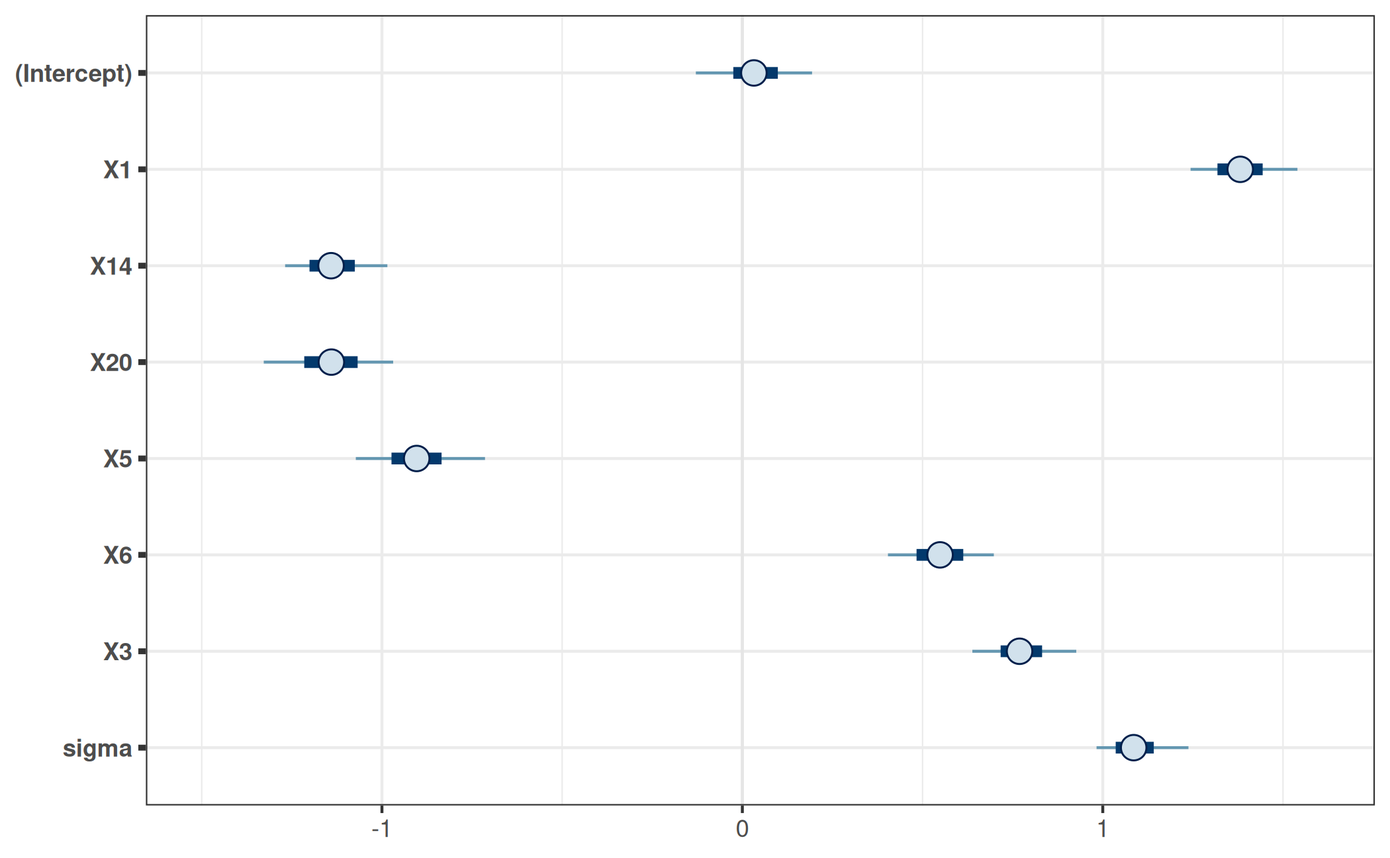
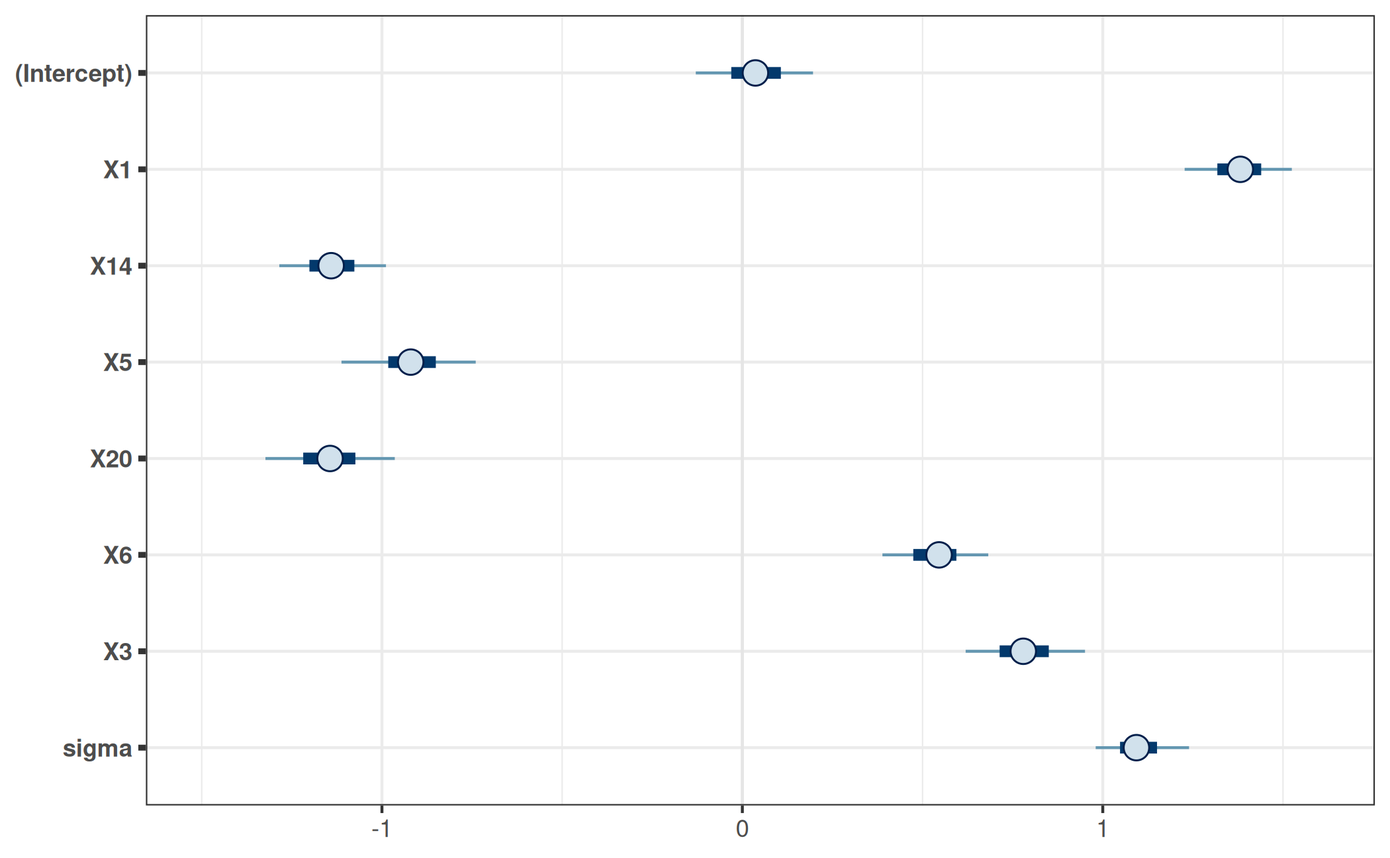
re-build the articles using `pkgdown::build_articles()`

diff --git a/articles/projpred.html b/articles/projpred.html
@@ -257,7 +257,7 @@ mechanism to detect the number of CPU cores (like the
 <span><span class="va">ncores</span> <span class="op">&lt;-</span> <span class="fu"><a href="https://rdrr.io/r/base/Extremes.html" class="external-link">min</a></span><span class="op">(</span><span class="va">ncores</span>, <span class="fl">2L</span><span class="op">)</span></span>
 <span><span class="co">###</span></span>
 <span><span class="fu"><a href="https://rdrr.io/r/base/options.html" class="external-link">options</a></span><span class="op">(</span>mc.cores <span class="op">=</span> <span class="va">ncores</span><span class="op">)</span></span>
-<span><span class="fu"><a href="https://rdrr.io/r/base/Random.html" class="external-link">set.seed</a></span><span class="op">(</span><span class="fl">5078022</span><span class="op">)</span></span>
+<span><span class="fu"><a href="https://rdrr.io/r/base/Random.html" class="external-link">set.seed</a></span><span class="op">(</span><span class="fl">50780</span><span class="op">)</span></span>
 <span><span class="va">refm_fit</span> <span class="op">&lt;-</span> <span class="fu"><a href="https://mc-stan.org/rstanarm/reference/stan_glm.html" class="external-link">stan_glm</a></span><span class="op">(</span></span>
 <span>  <span class="va">y</span> <span class="op">~</span> <span class="va">X1</span> <span class="op">+</span> <span class="va">X2</span> <span class="op">+</span> <span class="va">X3</span> <span class="op">+</span> <span class="va">X4</span> <span class="op">+</span> <span class="va">X5</span> <span class="op">+</span> <span class="va">X6</span> <span class="op">+</span> <span class="va">X7</span> <span class="op">+</span> <span class="va">X8</span> <span class="op">+</span> <span class="va">X9</span> <span class="op">+</span> <span class="va">X10</span> <span class="op">+</span> <span class="va">X11</span> <span class="op">+</span> <span class="va">X12</span> <span class="op">+</span> <span class="va">X13</span> <span class="op">+</span> <span class="va">X14</span> <span class="op">+</span></span>
 <span>    <span class="va">X15</span> <span class="op">+</span> <span class="va">X16</span> <span class="op">+</span> <span class="va">X17</span> <span class="op">+</span> <span class="va">X18</span> <span class="op">+</span> <span class="va">X19</span> <span class="op">+</span> <span class="va">X20</span>,</span>
@@ -347,9 +347,6 @@ and set <code>refit_prj</code> to <code>FALSE</code>.</p>
 <span>  verbose <span class="op">=</span> <span class="fl">0</span></span>
 <span>  <span class="co">### </span></span>
 <span><span class="op">)</span></span></code></pre></div>
-<pre><code>Warning: Some Pareto k diagnostic values are too high. See help('pareto-k-diagnostic') for details.</code></pre>
-<pre><code>Warning: Some (2 / 100) Pareto k's for the reference model's PSIS-LOO weights
-are &gt; 0.67.</code></pre>
 <p>In this case, we ignore the Pareto
 <math display="inline" xmlns="http://www.w3.org/1998/Math/MathML"><semantics><mover><mi>k</mi><mo accent="true">̂</mo></mover><annotation encoding="application/x-tex">\hat{k}</annotation></semantics></math>
 warnings due to the reduced values for <code>chains</code> and
@@ -368,7 +365,7 @@ can omit the predictor ranking from the plot by setting
 <code>size_position = "primary_x_bottom"</code>, which we set here via
 its global option, just like arguments <code>text_angle</code> and
 <code>show_cv_proportions</code> of <code><a href="../reference/plot.vsel.html">plot.vsel()</a></code>):</p>
-<div class="sourceCode" id="cb12"><pre class="downlit sourceCode r">
+<div class="sourceCode" id="cb10"><pre class="downlit sourceCode r">
 <code class="sourceCode R"><span><span class="fu"><a href="https://rdrr.io/r/base/options.html" class="external-link">options</a></span><span class="op">(</span>projpred.plot_vsel_text_angle <span class="op">=</span> <span class="fl">0</span><span class="op">)</span></span>
 <span><span class="fu"><a href="https://rdrr.io/r/base/options.html" class="external-link">options</a></span><span class="op">(</span>projpred.plot_vsel_show_cv_proportions <span class="op">=</span> <span class="cn">TRUE</span><span class="op">)</span></span>
 <span><span class="fu"><a href="https://rdrr.io/r/base/options.html" class="external-link">options</a></span><span class="op">(</span>projpred.plot_vsel_size_position <span class="op">=</span> <span class="st">"primary_x_bottom"</span><span class="op">)</span></span>
@@ -393,7 +390,7 @@ call (this is done by applying <code><a href="../reference/cv_varsel.html">cv_va
 <strong>projpred</strong> 2.8.0<a href="#fn6" class="footnote-ref" id="fnref6"><sup>6</sup></a>). To save time, we also set
 <code>nclusters_pred</code> to a comparatively low value of
 <code>20</code>:</p>
-<div class="sourceCode" id="cb13"><pre class="downlit sourceCode r">
+<div class="sourceCode" id="cb11"><pre class="downlit sourceCode r">
 <code class="sourceCode R"><span><span class="co"># Preliminary cv_varsel() run with `refit_prj = TRUE`:</span></span>
 <span><span class="va">cvvs_fast_refit</span> <span class="op">&lt;-</span> <span class="fu"><a href="../reference/cv_varsel.html">cv_varsel</a></span><span class="op">(</span></span>
 <span>  <span class="va">cvvs_fast</span>,</span>
@@ -404,9 +401,6 @@ call (this is done by applying <code><a href="../reference/cv_varsel.html">cv_va
 <span>  verbose <span class="op">=</span> <span class="fl">0</span></span>
 <span>  <span class="co">### </span></span>
 <span><span class="op">)</span></span></code></pre></div>
-<pre><code>Warning: Some Pareto k diagnostic values are too high. See help('pareto-k-diagnostic') for details.</code></pre>
-<pre><code>Warning: Some (2 / 100) Pareto k's for the reference model's PSIS-LOO weights
-are &gt; 0.67.</code></pre>
 <pre><code>Using standard importance sampling (SIS) due to a small number of clusters.</code></pre>
 <p>As explained above, we ignore the Pareto
 <math display="inline" xmlns="http://www.w3.org/1998/Math/MathML"><semantics><mover><mi>k</mi><mo accent="true">̂</mo></mover><annotation encoding="application/x-tex">\hat{k}</annotation></semantics></math>
@@ -416,7 +410,7 @@ is due to <code>nclusters_pred = 20</code> which we used only to speed
 up the building of the vignette).</p>
 <p>With the <code>refit_prj = TRUE</code> results, the predictive
 performance plot from above now looks as follows:</p>
-<div class="sourceCode" id="cb17"><pre class="downlit sourceCode r">
+<div class="sourceCode" id="cb13"><pre class="downlit sourceCode r">
 <code class="sourceCode R"><span><span class="fu"><a href="https://rdrr.io/r/graphics/plot.default.html" class="external-link">plot</a></span><span class="op">(</span><span class="va">cvvs_fast_refit</span>, stats <span class="op">=</span> <span class="st">"mlpd"</span>, ranking_nterms_max <span class="op">=</span> <span class="cn">NA</span><span class="op">)</span></span></code></pre></div>
 <p><img src="projpred_files/figure-html/plot_vsel_fast_refit-1.png" width="90%" style="display: block; margin: auto;">
 This refined plot shows that the submodel MLPD does not change much
@@ -461,19 +455,15 @@ eats up any runtime improvements). Note that for this final
 <code>refm_obj</code>) because of the change in <code>nterms_max</code>
 (here: 9, for <code>cvvs_fast</code> and <code>cvvs_fast_refit</code>:
 20).</p>
-<div class="sourceCode" id="cb18"><pre class="downlit sourceCode r">
+<div class="sourceCode" id="cb14"><pre class="downlit sourceCode r">
 <code class="sourceCode R"><span><span class="co"># Refit the reference model K times:</span></span>
 <span><span class="va">cv_fits</span> <span class="op">&lt;-</span> <span class="fu"><a href="../reference/run_cvfun.html">run_cvfun</a></span><span class="op">(</span></span>
 <span>  <span class="va">refm_obj</span>,</span>
 <span>  <span class="co">### Only for the sake of speed (not recommended in general):</span></span>
 <span>  K <span class="op">=</span> <span class="fl">2</span></span>
 <span>  <span class="co">###</span></span>
-<span><span class="op">)</span></span></code></pre></div>
-<pre><code>Warning: Bulk Effective Samples Size (ESS) is too low, indicating posterior means and medians may be unreliable.
-Running the chains for more iterations may help. See
-https://mc-stan.org/misc/warnings.html#bulk-ess</code></pre>
-<div class="sourceCode" id="cb20"><pre class="downlit sourceCode r">
-<code class="sourceCode R"><span><span class="co"># For running projpred's CV in parallel (see cv_varsel()'s argument `parallel`):</span></span>
+<span><span class="op">)</span></span>
+<span><span class="co"># For running projpred's CV in parallel (see cv_varsel()'s argument `parallel`):</span></span>
 <span><span class="fu">doParallel</span><span class="fu">::</span><span class="fu"><a href="https://rdrr.io/pkg/doParallel/man/registerDoParallel.html" class="external-link">registerDoParallel</a></span><span class="op">(</span><span class="va">ncores</span><span class="op">)</span></span>
 <span><span class="co"># Final cv_varsel() run:</span></span>
 <span><span class="va">cvvs</span> <span class="op">&lt;-</span> <span class="fu"><a href="../reference/cv_varsel.html">cv_varsel</a></span><span class="op">(</span></span>
@@ -513,7 +503,7 @@ than the actual-scale uncertainty (at least with regard to the decision
 for a final submodel size) and the actual-scale point estimates are
 often of more interest than the difference-scale point estimates, we
 plot with <code>deltas = "mixed"</code> here:</p>
-<div class="sourceCode" id="cb21"><pre class="downlit sourceCode r">
+<div class="sourceCode" id="cb15"><pre class="downlit sourceCode r">
 <code class="sourceCode R"><span><span class="fu"><a href="https://rdrr.io/r/graphics/plot.default.html" class="external-link">plot</a></span><span class="op">(</span><span class="va">cvvs</span>, stats <span class="op">=</span> <span class="st">"mlpd"</span>, deltas <span class="op">=</span> <span class="st">"mixed"</span><span class="op">)</span></span></code></pre></div>
 <p><img src="projpred_files/figure-html/plot_vsel-1.png" width="90%" style="display: block; margin: auto;"></p>
 </div>
@@ -534,7 +524,7 @@ that the focus of our predictive model is sparsity (not accuracy).
 Hence, based on the plot, we decide for a submodel size of 6 because
 this is the smallest size where the submodel MLPD is close enough to the
 reference model MLPD:</p>
-<div class="sourceCode" id="cb22"><pre class="downlit sourceCode r">
+<div class="sourceCode" id="cb16"><pre class="downlit sourceCode r">
 <code class="sourceCode R"><span><span class="va">size_decided</span> <span class="op">&lt;-</span> <span class="fl">6</span></span></code></pre></div>
 <p>If the focus of our predictive model had been accuracy (not
 sparsity), size 7 (or even 8) would have been a natural choice because
@@ -547,7 +537,7 @@ incorporated into our decision for a submodel size.</p>
 <strong>projpred</strong> may help in the decision for a submodel size,
 but this is a rather heuristic method and needs to be interpreted with
 caution (see <code><a href="../reference/suggest_size.html">?suggest_size</a></code>):</p>
-<div class="sourceCode" id="cb23"><pre class="downlit sourceCode r">
+<div class="sourceCode" id="cb17"><pre class="downlit sourceCode r">
 <code class="sourceCode R"><span><span class="fu"><a href="../reference/suggest_size.html">suggest_size</a></span><span class="op">(</span><span class="va">cvvs</span>, stat <span class="op">=</span> <span class="st">"mlpd"</span><span class="op">)</span></span></code></pre></div>
 <pre><code>[1] 7</code></pre>
 <p>With this heuristic, we would get the same final submodel size
@@ -568,7 +558,7 @@ performance plot above as closely as possible (and to also adjust the
 minimum number of printed significant digits), we may call
 <code><a href="../reference/summary.vsel.html">summary.vsel()</a></code> and <code><a href="../reference/print.vselsummary.html">print.vselsummary()</a></code> as
 follows:</p>
-<div class="sourceCode" id="cb25"><pre class="downlit sourceCode r">
+<div class="sourceCode" id="cb19"><pre class="downlit sourceCode r">
 <code class="sourceCode R"><span><span class="va">smmry</span> <span class="op">&lt;-</span> <span class="fu"><a href="https://rdrr.io/r/base/summary.html" class="external-link">summary</a></span><span class="op">(</span><span class="va">cvvs</span>,</span>
 <span>                 stats <span class="op">=</span> <span class="st">"mlpd"</span>,</span>
 <span>                 type <span class="op">=</span> <span class="fu"><a href="https://rdrr.io/r/base/c.html" class="external-link">c</a></span><span class="op">(</span><span class="st">"mean"</span>, <span class="st">"diff.lower"</span>, <span class="st">"diff.upper"</span><span class="op">)</span>,</span>
@@ -591,16 +581,16 @@ Argument `refit_prj`: TRUE
 
 Submodel performance evaluation summary with `deltas = FALSE` and `cumulate = FALSE`:
  size ranking_fulldata cv_proportions_diag mlpd mlpd.diff.lower mlpd.diff.upper
-    0      (Intercept)                  NA   -3          -1.066          -0.909
-    1               X1                 1.0   -2          -0.874          -0.709
-    2              X14                 1.0   -2          -0.667          -0.503
-    3              X20                 0.5   -2          -0.540          -0.393
-    4               X5                 0.0   -2          -0.523          -0.375
-    5               X6                 0.0   -2          -0.267          -0.155
-    6               X3                 0.5   -2          -0.072          -0.004
-    7               X8                 0.5   -2          -0.033           0.032
-    8              X11                 0.5   -1           0.032           0.068
-    9               X7                 0.0   -2          -0.003           0.027
+    0      (Intercept)                  NA   -3           -1.05          -0.903
+    1               X1                 1.0   -2           -0.87          -0.704
+    2              X14                 1.0   -2           -0.62          -0.487
+    3               X5                 0.5   -2           -0.64          -0.469
+    4              X20                 0.0   -2           -0.61          -0.429
+    5               X6                 0.0   -2           -0.27          -0.151
+    6               X3                 0.0   -2           -0.26          -0.169
+    7               X8                 0.5   -2           -0.02           0.016
+    8              X11                 0.0   -2           -0.03           0.009
+    9               X7                 0.0   -2           -0.01           0.021
 
 Reference model performance evaluation summary with `deltas = FALSE`:
 mlpd 
@@ -618,7 +608,7 @@ full-data search, but also fold-wise searches, implying that there are
 also fold-wise predictor rankings. All of these predictor rankings (the
 full-data one and—if available—the fold-wise ones) can be retrieved via
 <code><a href="../reference/ranking.html">ranking()</a></code>:</p>
-<div class="sourceCode" id="cb27"><pre class="downlit sourceCode r">
+<div class="sourceCode" id="cb21"><pre class="downlit sourceCode r">
 <code class="sourceCode R"><span><span class="va">rk</span> <span class="op">&lt;-</span> <span class="fu"><a href="../reference/ranking.html">ranking</a></span><span class="op">(</span><span class="va">cvvs</span><span class="op">)</span></span></code></pre></div>
 <p>In addition to inspecting the full-data predictor ranking, it usually
 makes sense to investigate the ranking proportions derived from the
@@ -636,19 +626,19 @@ at position
 <math display="inline" xmlns="http://www.w3.org/1998/Math/MathML"><semantics><mi>j</mi><annotation encoding="application/x-tex">j</annotation></semantics></math>
 of their predictor ranking. To compute these ranking proportions, we use
 <code><a href="../reference/cv_proportions.html">cv_proportions()</a></code>:</p>
-<div class="sourceCode" id="cb28"><pre class="downlit sourceCode r">
+<div class="sourceCode" id="cb22"><pre class="downlit sourceCode r">
 <code class="sourceCode R"><span><span class="op">(</span> <span class="va">pr_rk</span> <span class="op">&lt;-</span> <span class="fu"><a href="../reference/cv_proportions.html">cv_proportions</a></span><span class="op">(</span><span class="va">rk</span><span class="op">)</span> <span class="op">)</span></span></code></pre></div>
 <pre><code>    predictor
-size X1 X14 X20  X5  X6  X3  X8 X11  X7
-   1  1   0 0.0 0.0 0.0 0.0 0.0 0.0 0.0
-   2  0   1 0.0 0.0 0.0 0.0 0.0 0.0 0.0
-   3  0   0 0.5 0.5 0.0 0.0 0.0 0.0 0.0
-   4  0   0 0.0 0.0 0.5 0.5 0.0 0.0 0.0
-   5  0   0 0.5 0.5 0.0 0.0 0.0 0.0 0.0
-   6  0   0 0.0 0.0 0.5 0.5 0.0 0.0 0.0
-   7  0   0 0.0 0.0 0.0 0.0 0.5 0.0 0.5
-   8  0   0 0.0 0.0 0.0 0.0 0.5 0.5 0.0
-   9  0   0 0.0 0.0 0.0 0.0 0.0 0.0 0.0
+size X1 X14  X5 X20  X6  X3  X8 X11 X7
+   1  1   0 0.0   0 0.0 0.0 0.0 0.0  0
+   2  0   1 0.0   0 0.0 0.0 0.0 0.0  0
+   3  0   0 0.5   0 0.5 0.0 0.0 0.0  0
+   4  0   0 0.5   0 0.0 0.5 0.0 0.0  0
+   5  0   0 0.0   1 0.0 0.0 0.0 0.0  0
+   6  0   0 0.0   0 0.5 0.0 0.5 0.0  0
+   7  0   0 0.0   0 0.0 0.5 0.5 0.0  0
+   8  0   0 0.0   0 0.0 0.0 0.0 0.0  0
+   9  0   0 0.0   0 0.0 0.0 0.0 0.5  0
 attr(,"class")
 [1] "cv_proportions"</code></pre>
 <p>Here, the ranking proportions are of little use as we have used
@@ -660,9 +650,9 @@ follow the full-data predictor ranking, we can infer that
 <code>X1</code> is also the most relevant predictor term in the
 full-data predictor ranking. To see this more explicitly, we can access
 element <code>fulldata</code> of the <code><a href="../reference/ranking.html">ranking()</a></code> output:</p>
-<div class="sourceCode" id="cb30"><pre class="downlit sourceCode r">
+<div class="sourceCode" id="cb24"><pre class="downlit sourceCode r">
 <code class="sourceCode R"><span><span class="va">rk</span><span class="op">[[</span><span class="st">"fulldata"</span><span class="op">]</span><span class="op">]</span></span></code></pre></div>
-<pre><code>[1] "X1"  "X14" "X20" "X5"  "X6"  "X3"  "X8"  "X11" "X7" </code></pre>
+<pre><code>[1] "X1"  "X14" "X5"  "X20" "X6"  "X3"  "X8"  "X11" "X7" </code></pre>
 <p>This is the same as column <code>ranking_fulldata</code> in the
 <code><a href="../reference/summary.vsel.html">summary.vsel()</a></code> output above (apart from the intercept). (As
 also stated by the message thrown by <code><a href="../reference/print.vselsummary.html">print.vselsummary()</a></code>,
@@ -675,7 +665,7 @@ matrix that we stored manually as <code>pr_rk</code>.)</p>
 not need to sum to 100 % (neither column-wise nor row-wise).</p>
 <p>The <em>transposed</em> matrix of ranking proportions can be
 visualized via <code><a href="../reference/plot.cv_proportions.html">plot.cv_proportions()</a></code>:</p>
-<div class="sourceCode" id="cb32"><pre class="downlit sourceCode r">
+<div class="sourceCode" id="cb26"><pre class="downlit sourceCode r">
 <code class="sourceCode R"><span><span class="fu"><a href="https://rdrr.io/r/graphics/plot.default.html" class="external-link">plot</a></span><span class="op">(</span><span class="va">pr_rk</span><span class="op">)</span></span></code></pre></div>
 <p><img src="projpred_files/figure-html/plot_cv_proportions-1.png" width="90%" style="display: block; margin: auto;">
 Apart from visualizing the variability in the ranking of the predictors
@@ -684,12 +674,12 @@ will be helpful later.</p>
 <p>To retrieve the predictor terms of the final submodel (except for the
 intercept which is always included in the submodels), we combine the
 chosen submodel size of 6 with the full-data predictor ranking:</p>
-<div class="sourceCode" id="cb33"><pre class="downlit sourceCode r">
+<div class="sourceCode" id="cb27"><pre class="downlit sourceCode r">
 <code class="sourceCode R"><span><span class="op">(</span> <span class="va">predictors_final</span> <span class="op">&lt;-</span> <span class="fu"><a href="https://rdrr.io/r/utils/head.html" class="external-link">head</a></span><span class="op">(</span><span class="va">rk</span><span class="op">[[</span><span class="st">"fulldata"</span><span class="op">]</span><span class="op">]</span>, <span class="va">size_decided</span><span class="op">)</span> <span class="op">)</span></span></code></pre></div>
-<pre><code>[1] "X1"  "X14" "X20" "X5"  "X6"  "X3" </code></pre>
+<pre><code>[1] "X1"  "X14" "X5"  "X20" "X6"  "X3" </code></pre>
 <p>At this place, it is again helpful to take the ranking proportions
 into account, but now in a cumulated fashion:</p>
-<div class="sourceCode" id="cb35"><pre class="downlit sourceCode r">
+<div class="sourceCode" id="cb29"><pre class="downlit sourceCode r">
 <code class="sourceCode R"><span><span class="fu"><a href="https://rdrr.io/r/graphics/plot.default.html" class="external-link">plot</a></span><span class="op">(</span><span class="fu"><a href="../reference/cv_proportions.html">cv_proportions</a></span><span class="op">(</span><span class="va">rk</span>, cumulate <span class="op">=</span> <span class="cn">TRUE</span><span class="op">)</span><span class="op">)</span></span></code></pre></div>
 <p><img src="projpred_files/figure-html/plot_cv_proportions_cumul-1.png" width="90%" style="display: block; margin: auto;">
 This plot shows that the two fold-wise searches (as well as the
@@ -741,7 +731,7 @@ we project the reference model onto the final submodel once again<a href="#fn11"
 <!--   doParallel::registerDoParallel(ncores) -->
 <!--   trigger_default <- options(projpred.parallel_proj_trigger = 200) -->
 <!-- } --> <!-- ``` --></p>
-<div class="sourceCode" id="cb36"><pre class="downlit sourceCode r">
+<div class="sourceCode" id="cb30"><pre class="downlit sourceCode r">
 <code class="sourceCode R"><span><span class="va">prj</span> <span class="op">&lt;-</span> <span class="fu"><a href="../reference/project.html">project</a></span><span class="op">(</span></span>
 <span>  <span class="va">refm_obj</span>,</span>
 <span>  predictor_terms <span class="op">=</span> <span class="va">predictors_final</span>,</span>
@@ -758,7 +748,7 @@ we project the reference model onto the final submodel once again<a href="#fn11"
 <!-- ``` -->
 <p>Next, we create a matrix containing the projected posterior draws
 stored in the depths of <code><a href="../reference/project.html">project()</a></code>’s output:</p>
-<div class="sourceCode" id="cb37"><pre class="downlit sourceCode r">
+<div class="sourceCode" id="cb31"><pre class="downlit sourceCode r">
 <code class="sourceCode R"><span><span class="va">prj_mat</span> <span class="op">&lt;-</span> <span class="fu"><a href="https://rdrr.io/r/base/matrix.html" class="external-link">as.matrix</a></span><span class="op">(</span><span class="va">prj</span><span class="op">)</span></span></code></pre></div>
 <p>This matrix is all we need for post-selection inference. It can be
 used like any matrix of draws from MCMC procedures, except that it
@@ -783,9 +773,9 @@ package provides a general way to deal with posterior distributions, so
 it can also be applied to our projected posterior. For example, to
 calculate summary statistics for the marginals of the projected
 posterior:</p>
-<div class="sourceCode" id="cb38"><pre class="downlit sourceCode r">
+<div class="sourceCode" id="cb32"><pre class="downlit sourceCode r">
 <code class="sourceCode R"><span><span class="kw"><a href="https://rdrr.io/r/base/library.html" class="external-link">library</a></span><span class="op">(</span><span class="va"><a href="https://mc-stan.org/posterior/" class="external-link">posterior</a></span><span class="op">)</span></span></code></pre></div>
-<div class="sourceCode" id="cb39"><pre class="downlit sourceCode r">
+<div class="sourceCode" id="cb33"><pre class="downlit sourceCode r">
 <code class="sourceCode R"><span><span class="va">prj_drws</span> <span class="op">&lt;-</span> <span class="fu"><a href="https://mc-stan.org/posterior/reference/draws_matrix.html" class="external-link">as_draws_matrix</a></span><span class="op">(</span><span class="va">prj_mat</span><span class="op">)</span></span>
 <span><span class="va">prj_smmry</span> <span class="op">&lt;-</span> <span class="fu"><a href="https://mc-stan.org/posterior/reference/draws_summary.html" class="external-link">summarize_draws</a></span><span class="op">(</span></span>
 <span>  <span class="va">prj_drws</span>,</span>
@@ -796,21 +786,21 @@ posterior:</p>
 <span><span class="va">prj_smmry</span> <span class="op">&lt;-</span> <span class="fu"><a href="https://rdrr.io/r/base/as.data.frame.html" class="external-link">as.data.frame</a></span><span class="op">(</span><span class="va">prj_smmry</span><span class="op">)</span></span>
 <span><span class="fu"><a href="https://rdrr.io/r/base/print.html" class="external-link">print</a></span><span class="op">(</span><span class="va">prj_smmry</span>, digits <span class="op">=</span> <span class="fl">1</span><span class="op">)</span></span></code></pre></div>
 <pre><code>     variable median  mad 2.5% 97.5%
-1 (Intercept)   0.03 0.09 -0.2   0.2
+1 (Intercept)   0.04 0.10 -0.2   0.2
 2          X1   1.38 0.09  1.2   1.6
-3         X14  -1.14 0.09 -1.3  -0.9
-4         X20  -1.14 0.11 -1.4  -0.9
-5          X5  -0.90 0.10 -1.1  -0.7
-6          X6   0.55 0.10  0.4   0.7
-7          X3   0.77 0.09  0.6   1.0
+3         X14  -1.14 0.09 -1.3  -1.0
+4          X5  -0.92 0.10 -1.1  -0.7
+5         X20  -1.14 0.11 -1.3  -0.9
+6          X6   0.55 0.09  0.4   0.7
+7          X3   0.78 0.10  0.6   1.0
 8       sigma   1.09 0.08  1.0   1.3</code></pre>
 <p>A visualization of the projected posterior can be achieved with the
 <a href="https://mc-stan.org/bayesplot/" class="external-link"><strong>bayesplot</strong></a>
 package, for example using its <code><a href="https://mc-stan.org/bayesplot/reference/MCMC-intervals.html" class="external-link">mcmc_intervals()</a></code>
 function:</p>
-<div class="sourceCode" id="cb41"><pre class="downlit sourceCode r">
+<div class="sourceCode" id="cb35"><pre class="downlit sourceCode r">
 <code class="sourceCode R"><span><span class="kw"><a href="https://rdrr.io/r/base/library.html" class="external-link">library</a></span><span class="op">(</span><span class="va"><a href="https://mc-stan.org/bayesplot/" class="external-link">bayesplot</a></span><span class="op">)</span></span></code></pre></div>
-<div class="sourceCode" id="cb42"><pre class="downlit sourceCode r">
+<div class="sourceCode" id="cb36"><pre class="downlit sourceCode r">
 <code class="sourceCode R"><span><span class="fu"><a href="https://mc-stan.org/bayesplot/reference/bayesplot_theme_get.html" class="external-link">bayesplot_theme_set</a></span><span class="op">(</span><span class="fu">ggplot2</span><span class="fu">::</span><span class="fu"><a href="https://ggplot2.tidyverse.org/reference/ggtheme.html" class="external-link">theme_bw</a></span><span class="op">(</span><span class="op">)</span><span class="op">)</span></span>
 <span><span class="fu"><a href="https://mc-stan.org/bayesplot/reference/MCMC-intervals.html" class="external-link">mcmc_intervals</a></span><span class="op">(</span><span class="va">prj_mat</span><span class="op">)</span> <span class="op">+</span></span>
 <span>  <span class="fu">ggplot2</span><span class="fu">::</span><span class="fu"><a href="https://ggplot2.tidyverse.org/reference/coord_cartesian.html" class="external-link">coord_cartesian</a></span><span class="op">(</span>xlim <span class="op">=</span> <span class="fu"><a href="https://rdrr.io/r/base/c.html" class="external-link">c</a></span><span class="op">(</span><span class="op">-</span><span class="fl">1.5</span>, <span class="fl">1.6</span><span class="op">)</span><span class="op">)</span></span></code></pre></div>
@@ -821,7 +811,7 @@ have to visualize at least some <em>2-dimensional</em> marginals of the
 projected posterior (i.e., marginals for pairs of parameters).</p>
 <p>For comparison, consider the marginal posteriors of the corresponding
 parameters in the reference model:</p>
-<div class="sourceCode" id="cb43"><pre class="downlit sourceCode r">
+<div class="sourceCode" id="cb37"><pre class="downlit sourceCode r">
 <code class="sourceCode R"><span><span class="va">refm_mat</span> <span class="op">&lt;-</span> <span class="fu"><a href="https://rdrr.io/r/base/matrix.html" class="external-link">as.matrix</a></span><span class="op">(</span><span class="va">refm_fit</span><span class="op">)</span></span>
 <span><span class="fu"><a href="https://mc-stan.org/bayesplot/reference/MCMC-intervals.html" class="external-link">mcmc_intervals</a></span><span class="op">(</span><span class="va">refm_mat</span>, pars <span class="op">=</span> <span class="fu"><a href="https://rdrr.io/r/base/colnames.html" class="external-link">colnames</a></span><span class="op">(</span><span class="va">prj_mat</span><span class="op">)</span><span class="op">)</span> <span class="op">+</span></span>
 <span>  <span class="fu">ggplot2</span><span class="fu">::</span><span class="fu"><a href="https://ggplot2.tidyverse.org/reference/coord_cartesian.html" class="external-link">coord_cartesian</a></span><span class="op">(</span>xlim <span class="op">=</span> <span class="fu"><a href="https://rdrr.io/r/base/c.html" class="external-link">c</a></span><span class="op">(</span><span class="op">-</span><span class="fl">1.5</span>, <span class="fl">1.6</span><span class="op">)</span><span class="op">)</span></span></code></pre></div>
@@ -837,15 +827,15 @@ have to be the case.</p>
 <code><a href="../reference/pred-projection.html">proj_linpred()</a></code> and <code><a href="../reference/pred-projection.html">proj_predict()</a></code>.</p>
 <p>We start with <code><a href="../reference/pred-projection.html">proj_linpred()</a></code>. For example, suppose we
 have the following new observations:</p>
-<div class="sourceCode" id="cb44"><pre class="downlit sourceCode r">
+<div class="sourceCode" id="cb38"><pre class="downlit sourceCode r">
 <code class="sourceCode R"><span><span class="op">(</span> <span class="va">dat_gauss_new</span> <span class="op">&lt;-</span> <span class="fu"><a href="https://rdrr.io/r/stats/setNames.html" class="external-link">setNames</a></span><span class="op">(</span></span>
 <span>  <span class="fu"><a href="https://rdrr.io/r/base/as.data.frame.html" class="external-link">as.data.frame</a></span><span class="op">(</span><span class="fu"><a href="https://rdrr.io/r/base/lapply.html" class="external-link">replicate</a></span><span class="op">(</span><span class="fu"><a href="https://rdrr.io/r/base/length.html" class="external-link">length</a></span><span class="op">(</span><span class="va">predictors_final</span><span class="op">)</span>, <span class="fu"><a href="https://rdrr.io/r/base/c.html" class="external-link">c</a></span><span class="op">(</span><span class="op">-</span><span class="fl">1</span>, <span class="fl">0</span>, <span class="fl">1</span><span class="op">)</span><span class="op">)</span><span class="op">)</span>,</span>
 <span>  <span class="va">predictors_final</span></span>
 <span><span class="op">)</span> <span class="op">)</span></span></code></pre></div>
-<pre><code>  X1 X14 X20 X5 X6 X3
-1 -1  -1  -1 -1 -1 -1
-2  0   0   0  0  0  0
-3  1   1   1  1  1  1</code></pre>
+<pre><code>  X1 X14 X5 X20 X6 X3
+1 -1  -1 -1  -1 -1 -1
+2  0   0  0   0  0  0
+3  1   1  1   1  1  1</code></pre>
 <p>Then <code><a href="../reference/pred-projection.html">proj_linpred()</a></code> can calculate the linear
 predictors<a href="#fn14" class="footnote-ref" id="fnref14"><sup>14</sup></a> for all new observations from
 <code>dat_gauss_new</code>. Depending on argument
@@ -857,13 +847,13 @@ Gaussian family with the identity link function; for other
 families—which usually come in combination with a different link
 function—one would typically have to use <code>transform = TRUE</code>
 in order to achieve such expected values):</p>
-<div class="sourceCode" id="cb46"><pre class="downlit sourceCode r">
+<div class="sourceCode" id="cb40"><pre class="downlit sourceCode r">
 <code class="sourceCode R"><span><span class="va">prj_linpred</span> <span class="op">&lt;-</span> <span class="fu"><a href="../reference/pred-projection.html">proj_linpred</a></span><span class="op">(</span><span class="va">prj</span>, newdata <span class="op">=</span> <span class="va">dat_gauss_new</span>, integrated <span class="op">=</span> <span class="cn">TRUE</span><span class="op">)</span></span>
 <span><span class="fu"><a href="https://rdrr.io/r/base/cbind.html" class="external-link">cbind</a></span><span class="op">(</span><span class="va">dat_gauss_new</span>, linpred <span class="op">=</span> <span class="fu"><a href="https://rdrr.io/r/base/vector.html" class="external-link">as.vector</a></span><span class="op">(</span><span class="va">prj_linpred</span><span class="op">$</span><span class="va">pred</span><span class="op">)</span><span class="op">)</span></span></code></pre></div>
-<pre><code>  X1 X14 X20 X5 X6 X3     linpred
-1 -1  -1  -1 -1 -1 -1  0.50833129
-2  0   0   0  0  0  0  0.03382703
-3  1   1   1  1  1  1 -0.44067723</code></pre>
+<pre><code>  X1 X14 X5 X20 X6 X3     linpred
+1 -1  -1 -1  -1 -1 -1  0.53381961
+2  0   0  0   0  0  0  0.03348979
+3  1   1  1   1  1  1 -0.46684003</code></pre>
 <p>If <code>dat_gauss_new</code> also contained response values (i.e.,
 <code>y</code> values in this example), then <code><a href="../reference/pred-projection.html">proj_linpred()</a></code>
 would also evaluate the log predictive density at these (conditional on
@@ -878,7 +868,7 @@ but also the uncertainty arising from the observation (or “sampling”)
 model for the response<a href="#fn15" class="footnote-ref" id="fnref15"><sup>15</sup></a>. This is useful for what is usually
 termed a posterior predictive check (PPC), but would have to be termed
 something like a posterior-projection predictive check (PPPC) here:</p>
-<div class="sourceCode" id="cb48"><pre class="downlit sourceCode r">
+<div class="sourceCode" id="cb42"><pre class="downlit sourceCode r">
 <code class="sourceCode R"><span><span class="va">prj_predict</span> <span class="op">&lt;-</span> <span class="fu"><a href="../reference/pred-projection.html">proj_predict</a></span><span class="op">(</span><span class="va">prj</span><span class="op">)</span></span>
 <span><span class="co"># Using the 'bayesplot' package:</span></span>
 <span><span class="fu"><a href="https://mc-stan.org/bayesplot/reference/PPC-distributions.html" class="external-link">ppc_dens_overlay</a></span><span class="op">(</span>y <span class="op">=</span> <span class="va">dat_gauss</span><span class="op">$</span><span class="va">y</span>, yrep <span class="op">=</span> <span class="va">prj_predict</span><span class="op">)</span></span></code></pre></div>
@@ -967,7 +957,7 @@ options for a few arguments. See the documentation for details.</p>
 <code>VerbAgg</code> dataset from the <a href="https://CRAN.R-project.org/package=lme4" class="external-link"><strong>lme4</strong></a>
 package, a corresponding multilevel reference model for the binary
 response <code>r2</code> could be created by the following code:</p>
-<div class="sourceCode" id="cb49"><pre class="downlit sourceCode r">
+<div class="sourceCode" id="cb43"><pre class="downlit sourceCode r">
 <code class="sourceCode R"><span><span class="fu"><a href="https://rdrr.io/r/utils/data.html" class="external-link">data</a></span><span class="op">(</span><span class="st">"VerbAgg"</span>, package <span class="op">=</span> <span class="st">"lme4"</span><span class="op">)</span></span>
 <span><span class="va">refm_fit</span> <span class="op">&lt;-</span> <span class="fu"><a href="https://mc-stan.org/rstanarm/reference/stan_glmer.html" class="external-link">stan_glmer</a></span><span class="op">(</span></span>
 <span>  <span class="va">r2</span> <span class="op">~</span> <span class="va">btype</span> <span class="op">+</span> <span class="va">situ</span> <span class="op">+</span> <span class="va">mode</span> <span class="op">+</span> <span class="op">(</span><span class="va">btype</span> <span class="op">+</span> <span class="va">situ</span> <span class="op">+</span> <span class="va">mode</span> <span class="op">|</span> <span class="va">id</span><span class="op">)</span>,</span>
@@ -981,7 +971,7 @@ package. A corresponding reference model for the continuous response
 <code>yield</code> could be created by the following code (note that
 <code>pp_check(refm_fit)</code> gives a bad PPC in this case, so there’s
 still room for improvement):</p>
-<div class="sourceCode" id="cb50"><pre class="downlit sourceCode r">
+<div class="sourceCode" id="cb44"><pre class="downlit sourceCode r">
 <code class="sourceCode R"><span><span class="fu"><a href="https://rdrr.io/r/utils/data.html" class="external-link">data</a></span><span class="op">(</span><span class="st">"lasrosas.corn"</span>, package <span class="op">=</span> <span class="st">"agridat"</span><span class="op">)</span></span>
 <span><span class="co"># Convert `year` to a `factor` (this could also be solved by using</span></span>
 <span><span class="co"># `factor(year)` in the formula, but we avoid that here to put more emphasis on</span></span>
@@ -998,7 +988,7 @@ the <code>gumpertz.pepper</code> dataset from the
 <strong>agridat</strong> package. A corresponding reference model for
 the binary response <code>disease</code> could be created by the
 following code:</p>
-<div class="sourceCode" id="cb51"><pre class="downlit sourceCode r">
+<div class="sourceCode" id="cb45"><pre class="downlit sourceCode r">
 <code class="sourceCode R"><span><span class="fu"><a href="https://rdrr.io/r/utils/data.html" class="external-link">data</a></span><span class="op">(</span><span class="st">"gumpertz.pepper"</span>, package <span class="op">=</span> <span class="st">"agridat"</span><span class="op">)</span></span>
 <span><span class="va">refm_fit</span> <span class="op">&lt;-</span> <span class="fu"><a href="https://mc-stan.org/rstanarm/reference/stan_gamm4.html" class="external-link">stan_gamm4</a></span><span class="op">(</span></span>
 <span>  <span class="va">disease</span> <span class="op">~</span> <span class="va">field</span> <span class="op">+</span> <span class="va">leaf</span> <span class="op">+</span> <span class="fu">s</span><span class="op">(</span><span class="va">water</span><span class="op">)</span>,</span>
@@ -1410,9 +1400,7 @@ runtime advantage of <code>validate_search = FALSE</code> compared to
 
   <div class="col-md-3 hidden-xs hidden-sm" id="pkgdown-sidebar">
 
-        <nav id="toc" data-toggle="toc"><h2 data-toc-skip>Contents</h2>
-    </nav>
-</div>
+      </div>
 
 </div>
 
